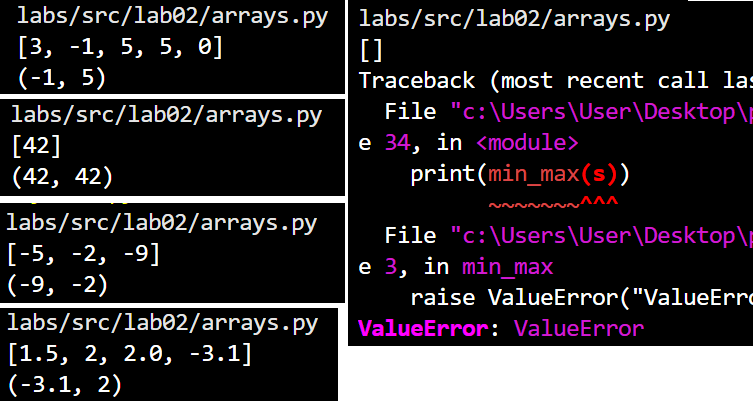
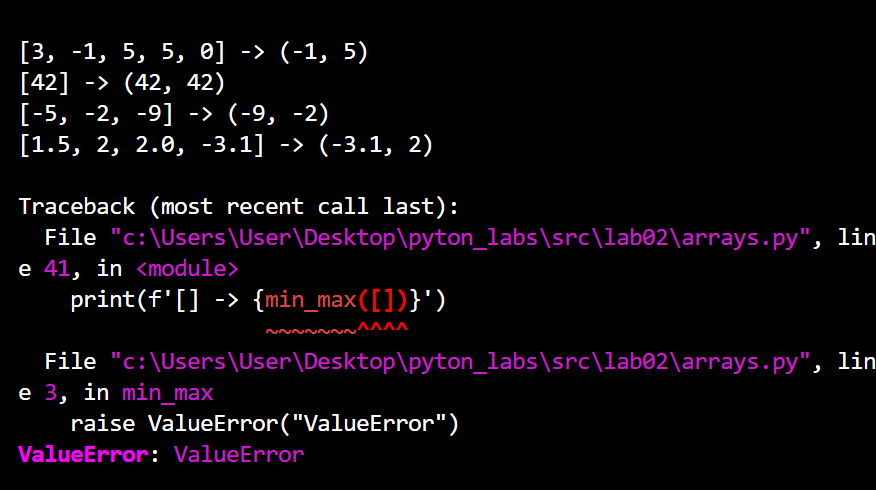
1

Changed region(s): [[0.0, 0.0, 1.0, 1.0]]

diff --git a/src/lab02/arrays.py b/src/lab02/arrays.py
@@ -30,9 +30,26 @@ def flatten(mat):
             res.append(x)
     return res
 
-s = eval(input())     
-print(min_max(s))
-print(unique_sorted(s))
-print(flatten(s))
+print(f'''
 
+[3, -1, 5, 5, 0] -> {min_max([3, -1, 5, 5, 0])}
+[42] -> {min_max([42])}
+[-5, -2, -9] -> {min_max([-5, -2, -9])}
+[1.5, 2, 2.0, -3.1] -> {min_max([1.5, 2, 2.0, -3.1])}
+''')
+#print(f'[] -> {min_max([])}')
+print(f'''
 
+[3, 1, 2, 1, 3] -> {unique_sorted([3, 1, 2, 1, 3])}
+[] -> {unique_sorted([])}
+[-1, -1, 0, 2, 2] -> {unique_sorted([-1, -1, 0, 2, 2])}
+[1.0, 1, 2.5, 2.5, 0] -> {unique_sorted([1.0, 1, 2.5, 2.5, 0])}
+''')
+
+print(f'''
+
+[[1, 2], [3, 4]] -> {flatten([[1, 2], [3, 4]])}
+[[1, 2], (3, 4, 5)] -> {flatten([[1, 2], (3, 4, 5)])}
+[[1], [], [2, 3]] -> {flatten([[1], [], [2, 3]])}
+''')
+print(f'[[1, 2], "ab"] -> {flatten([[1, 2], "ab"])}') 

diff --git a/src/lab02/README.md b/src/lab02/README.md
@@ -2,8 +2,6 @@
 
 **Задание 1.1**  
 *Файл:* [arrays.py](arrays.py)  
-*Ввод:* min_max(nums: list[float | int]) -> tuple[float | int, float | int]  
-*Вывод:* кортеж (минимум, максимум)  
 
 _Работа кода_   
 ![Демонстрация работы кода](/main/../images/lab02/ex1.png)
@@ -12,8 +10,6 @@ _Работа кода_
 
 **Задание 1.2**  
 *Файл:* [arrays.py](arrays.py)  
-*Ввод:* unique_sorted(nums: list[float | int]) -> list[float | int]  
-*Вывод:* отсортированный список уникальных значений (по возрастанию)  
 
 _Работа кода_   
 ![Демонстрация работы кода](/main/../images/lab02/ex2.png)
@@ -22,8 +18,6 @@ _Работа кода_
 
 **Задание 1.3**  
 *Файл:* [arrays.py](arrays.py)  
-*Ввод:* flatten(mat: list[list | tuple]) -> list     
-*Вывод:* список списков/кортежей в одном списке
 
 _Работа кода_   
 ![Демонстрация работы кода](/main/../images/lab02/ex3.png)
@@ -32,37 +26,26 @@ _Работа кода_
 
 **Задание 2.1**  
 *Файл:* [matrix.py](matrix.py)  
-*Ввод:* transpose(mat: list[list[float | int]]) -> list[list]     
-*Вывод:* Матрица, где строки и столбцы поменяли местами
-
 _Работа кода_   
 ![Демонстрация работы кода](/main/../images/lab02/ex4.png)
 
 ---
 
 **Задание 2.2**  
-*Файл:* [matrix.py](matrix.py)  
-*Ввод:* row_sums(mat: list[list[float | int]]) -> list[float]     
-*Вывод:* Сумма по каждой строке.  
-
+*Файл:* [matrix.py](matrix.py)
 _Работа кода_   
-![Демонстрация работы кода](/main/../images/lab02/ex5.png)
+![Демонстрация работы кода](/main/../images/lab02/ex5.png)   
 
 ---
 
 **Задание 2.3**  
 *Файл:* [matrix.py](matrix.py)  
-*Ввод:* col_sums(mat: list[list[float | int]]) -> list[float]    
-*Вывод:* Сумма по каждому столбцу  
-
 _Работа кода_   
 ![Демонстрация работы кода](/main/../images/lab02/ex6.png)
 
 ---
 **Задание 3**  
 *Файл:* [tuples.py](tuples.py)  
-*Ввод:* format_record(rec: tuple[str, str, float]) -> str     
-*Вывод:* Строка вида: Иванов И.И., гр. BIVT-25, GPA 4.60 
 
 _Работа кода_   
 ![Демонстрация работы кода](/main/../images/lab02/ex7.png)
